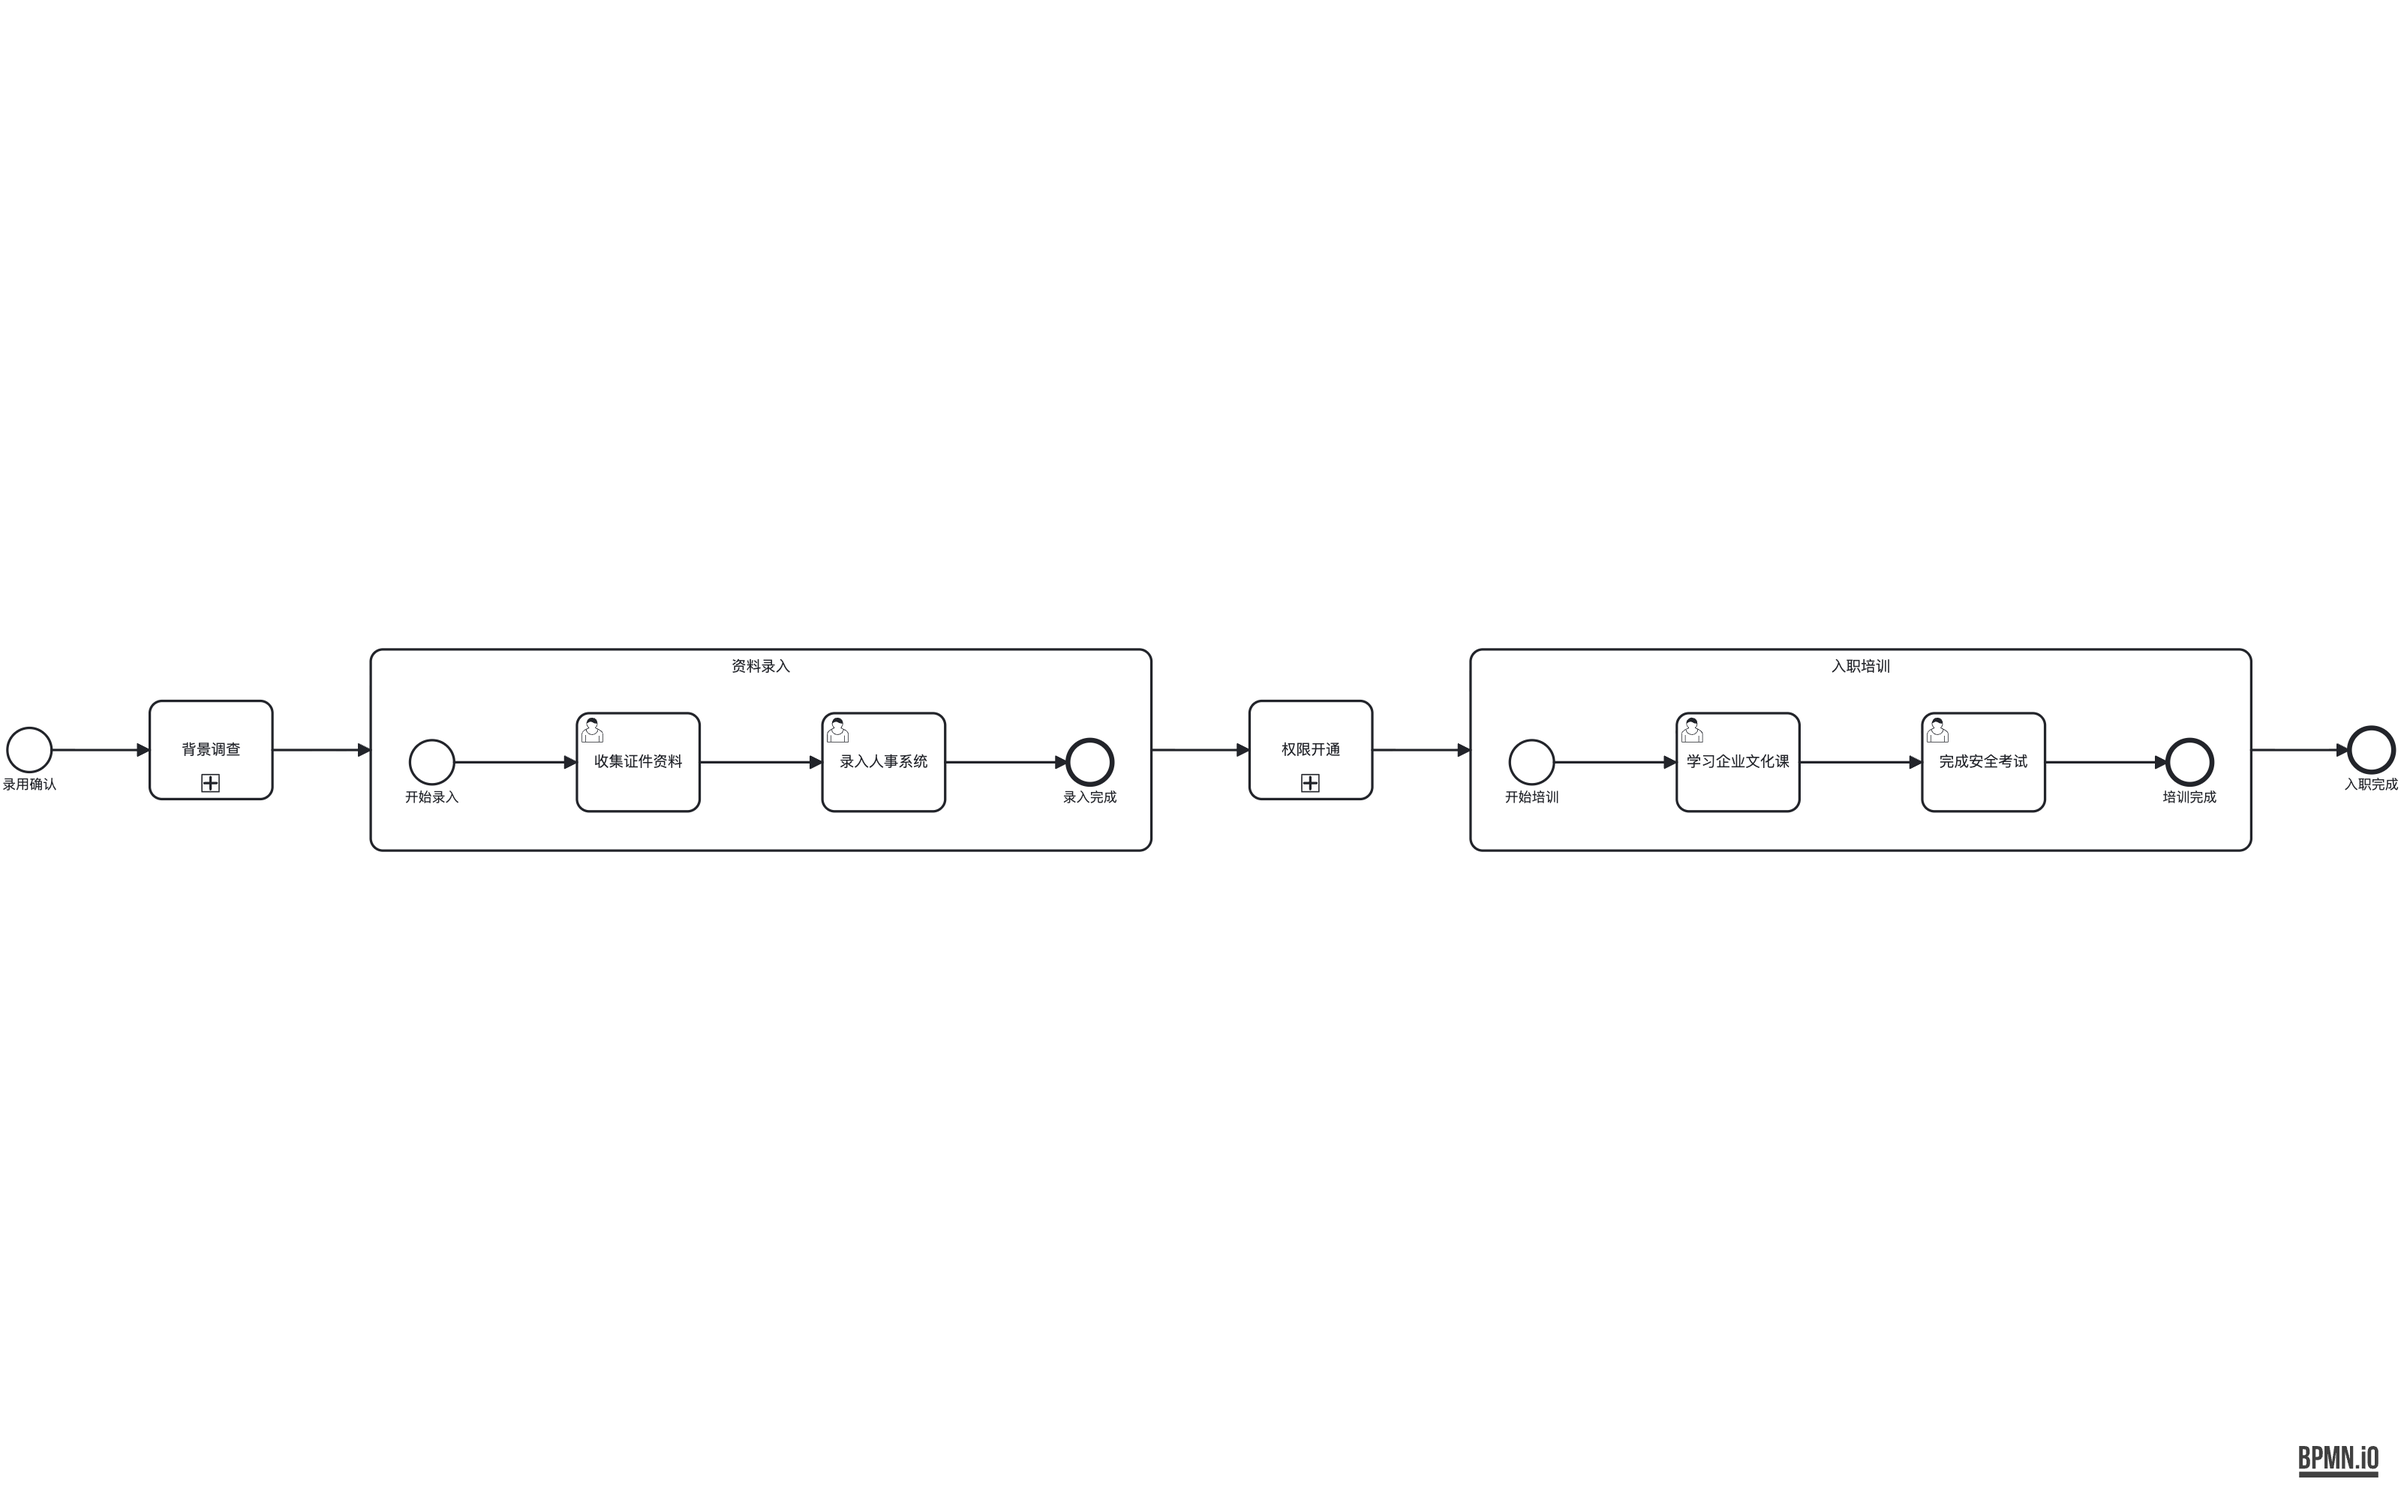
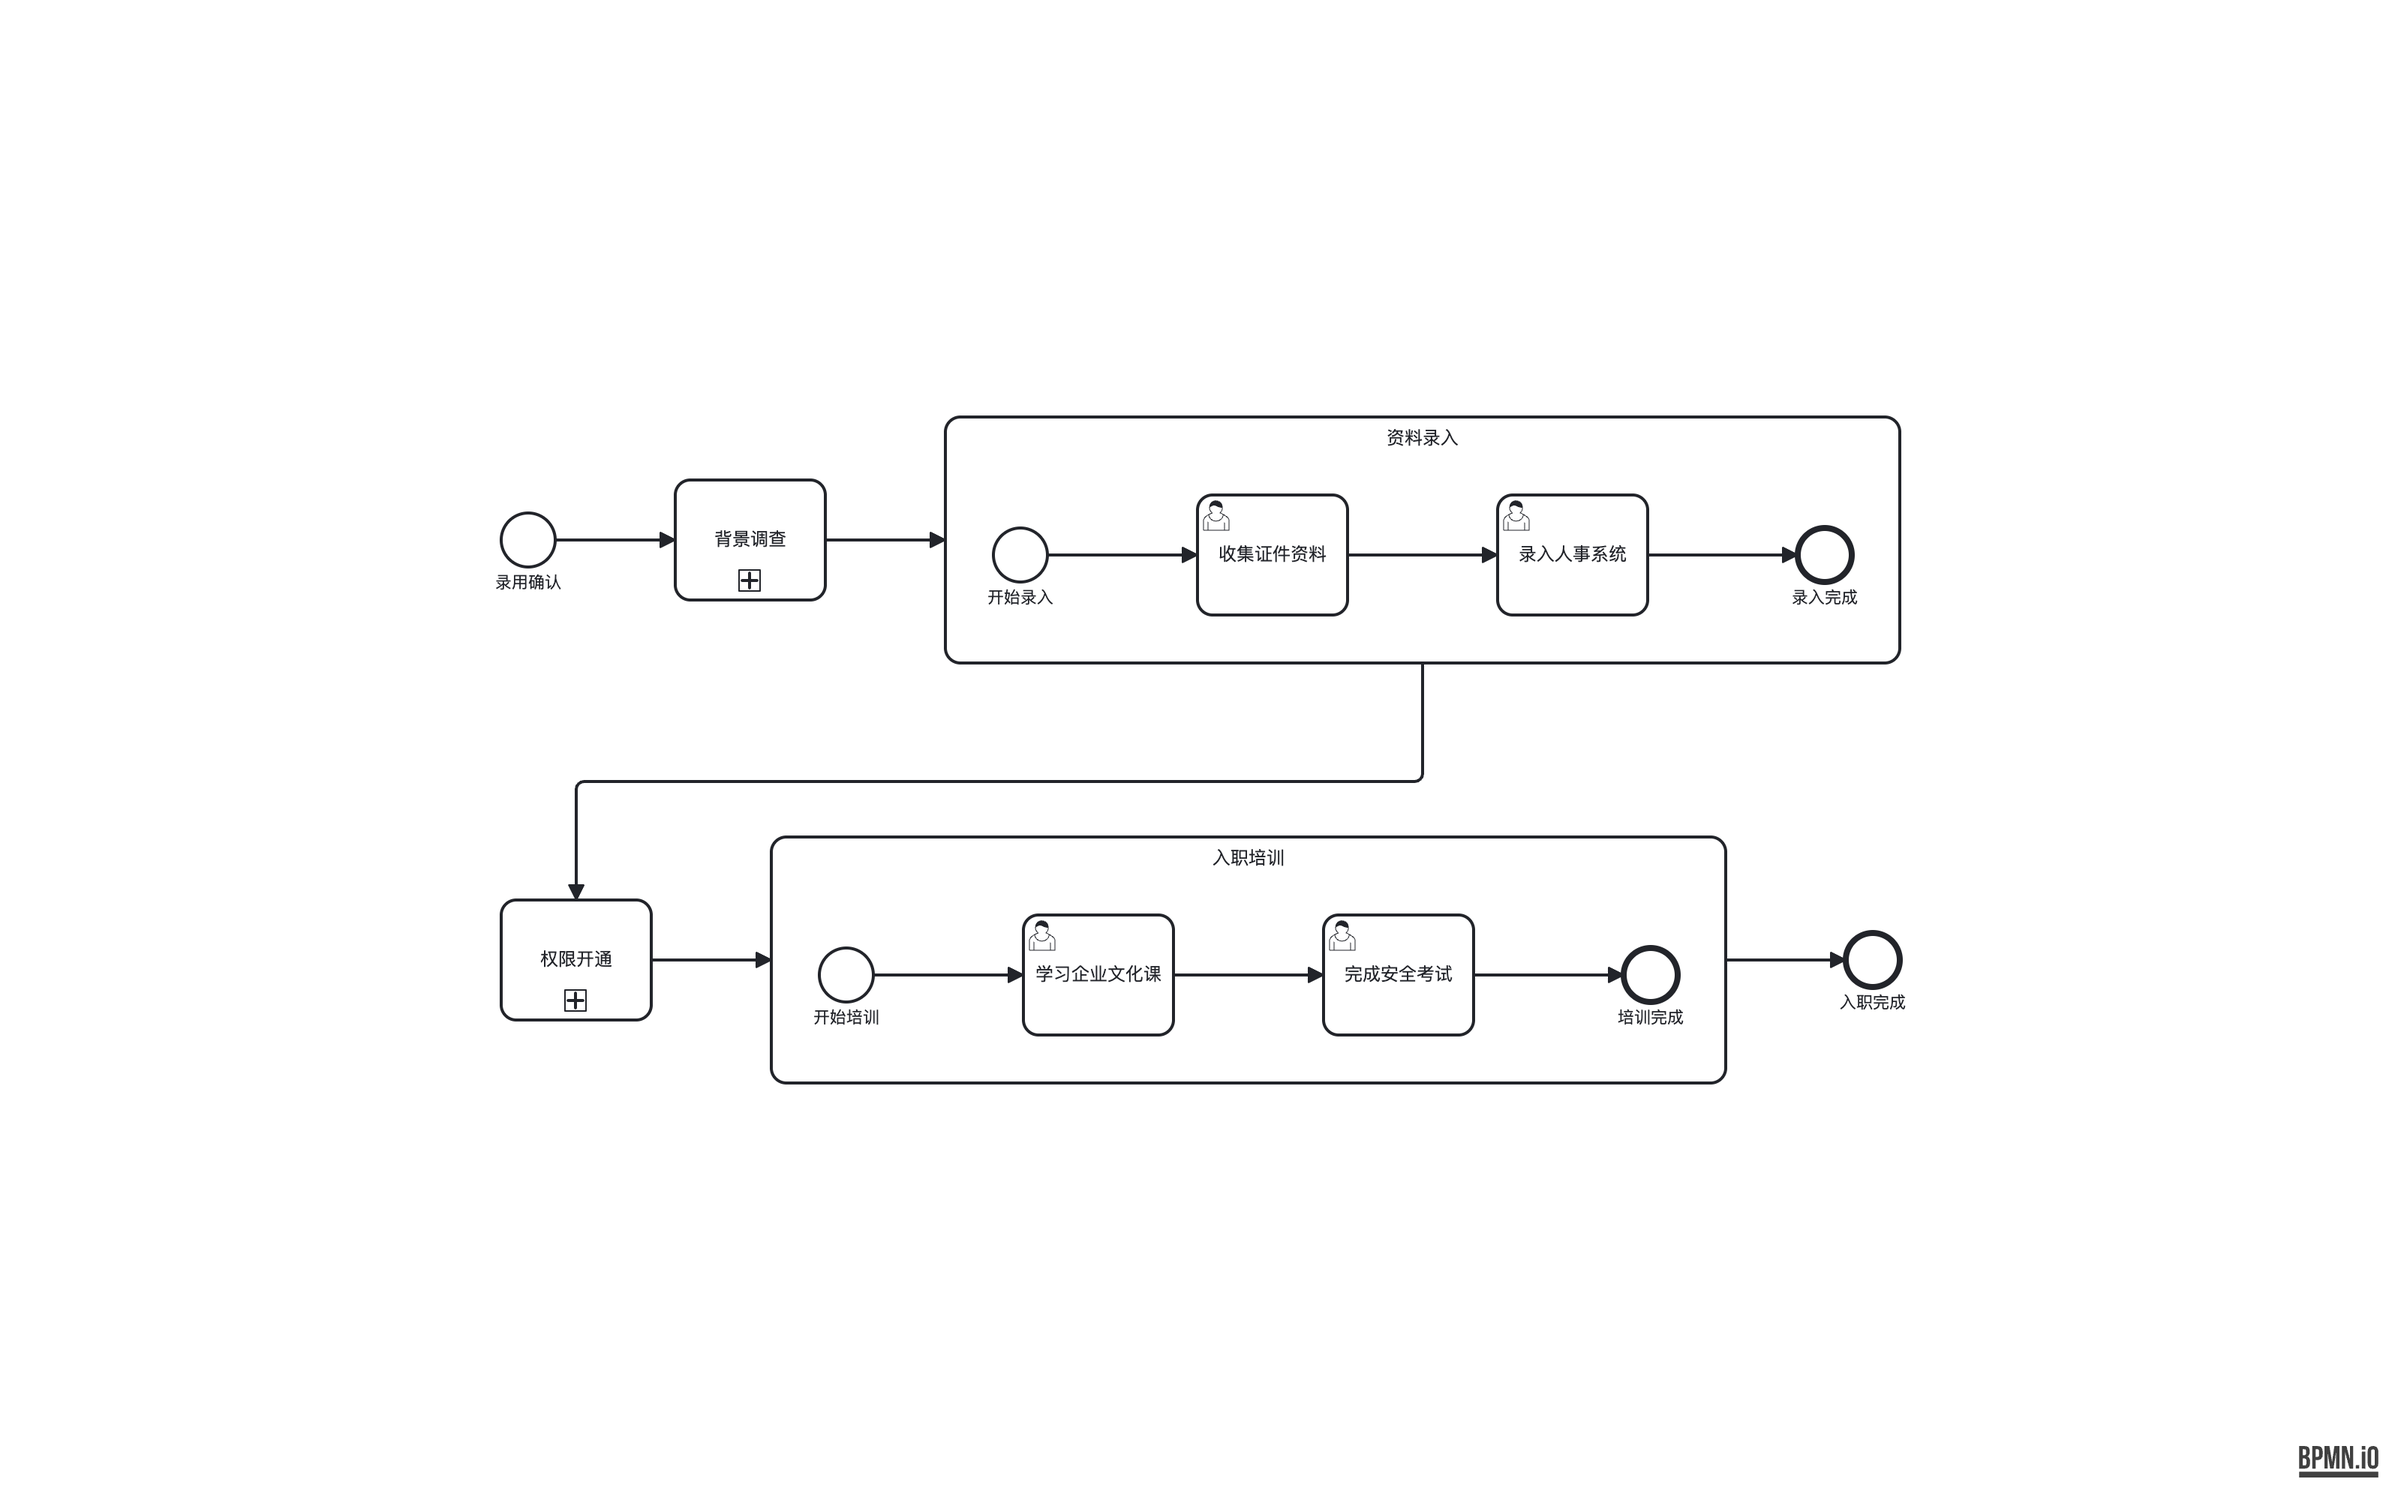
feat(compactor): 胖成员链按绝对行宽折行——subprocess 并排 74/76 F4 10.4/8.9 → 3.1/2.0
节点数门槛（≥7）量的是链长，量不到 74 的 5 节点 2100px 胖链（3 个展开的
subprocess 并排）。加绝对宽度通道：len ≥ 4 且单行宽 > 1600px 且 aspect > 7
（比长链的 6 严一档——compactor 量节点 bbox 不含 pool padding，73 的 6.5 是
「compactor 超线、evaluator 本来及格」的假阳性，折了反而拱线绕顶，已实测回退）。

代价：F11 +2 拐点（wrap 边固有）、F13 0.16/0.29 → 0.52/0.45（阈值内）。
PNG 目检：74/76 两行容器链 + 干净的 carriage-return，容器边框进出端正交。

diff --git a/src/stages/compactor.ts b/src/stages/compactor.ts
@@ -55,6 +55,15 @@ const LONG_CHAIN_MIN_ROW_NODES = 3;
 // 折行只为治「长链」（feedback Problem 2 的 ~20 节点链）；7 取自 09-multiinstance（需要折）
 // 与 05-artifacts（不能折，5 节点）之间。
 const LONG_CHAIN_MIN_WRAP_NODES = 7;
+// 「胖成员链」豁免节点数门槛：74 的 start + 3 个 subprocess + end 只有 5 个节点，
+// 但单行 2100px 已经很笨重——问题不是链长而是行宽。绝对宽度门槛让短链照常单排
+// （55 的 1440px 不折），只有明确过宽的链才折（≥ 4 节点保证 2+2 起步的行结构）。
+const LONG_CHAIN_WRAP_MIN_WIDTH = 1600;
+const FAT_CHAIN_MIN_WRAP_NODES = 4;
+// 胖成员链的折行触发比长链更严：compactor 量的是节点 bbox（不含 pool 边框 padding），
+// evaluator 的 F4 量的是含 pool 框的画布——73 这种 6.5 的刚好「compactor 超线、
+// evaluator 本来及格」，折了反而出拱线绕顶。7 = 6 + pool padding 的保守余量。
+const FAT_CHAIN_WRAP_ASPECT = 7;
 
 export function compact(input: CompactInput): CompactOutput {
   if (input.nodes.size <= 1) {
@@ -203,13 +212,20 @@ function wrapLongLinearChain(
   backEdgeIds?: ReadonlySet<string>,
 ): Map<string, NodeBox> | null {
   const order = linearOrder(nodes, edges, backEdgeIds);
-  if (!order || order.length < LONG_CHAIN_MIN_WRAP_NODES) return null;
+  if (!order) return null;
 
   // 宽高比驱动：单行摆得下（≤ 6:1）就不折；要折则选能把宽高比压到 ≤ 4 的最小行数。
   const boxes = Array.from(nodes.values());
   const singleW = Math.max(...boxes.map(b => b.x + b.w)) - Math.min(...boxes.map(b => b.x));
   const singleH = Math.max(...boxes.map(b => b.y + b.h)) - Math.min(...boxes.map(b => b.y));
-  if (singleH <= 0 || singleW / singleH <= LONG_CHAIN_WRAP_ASPECT) return null;
+  if (singleH <= 0) return null;
+  const singleAspect = singleW / singleH;
+  // 门槛二选一：节点数够（长链，aspect > 6）或单行绝对宽度够宽（胖成员链，aspect > 7）
+  const isLongChain = order.length >= LONG_CHAIN_MIN_WRAP_NODES && singleAspect > LONG_CHAIN_WRAP_ASPECT;
+  const isFatChain = order.length >= FAT_CHAIN_MIN_WRAP_NODES
+    && singleW > LONG_CHAIN_WRAP_MIN_WIDTH
+    && singleAspect > FAT_CHAIN_WRAP_ASPECT;
+  if (!isLongChain && !isFatChain) return null;
 
   let rowCount = 2;
   const maxRows = Math.max(2, Math.floor(order.length / LONG_CHAIN_MIN_ROW_NODES));
